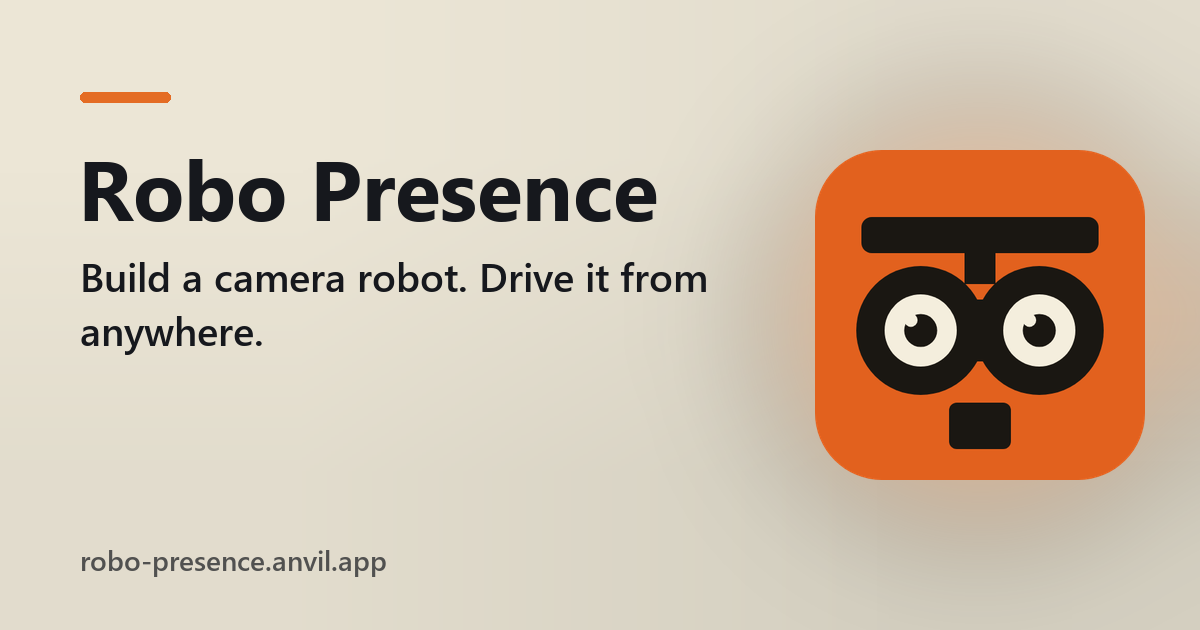
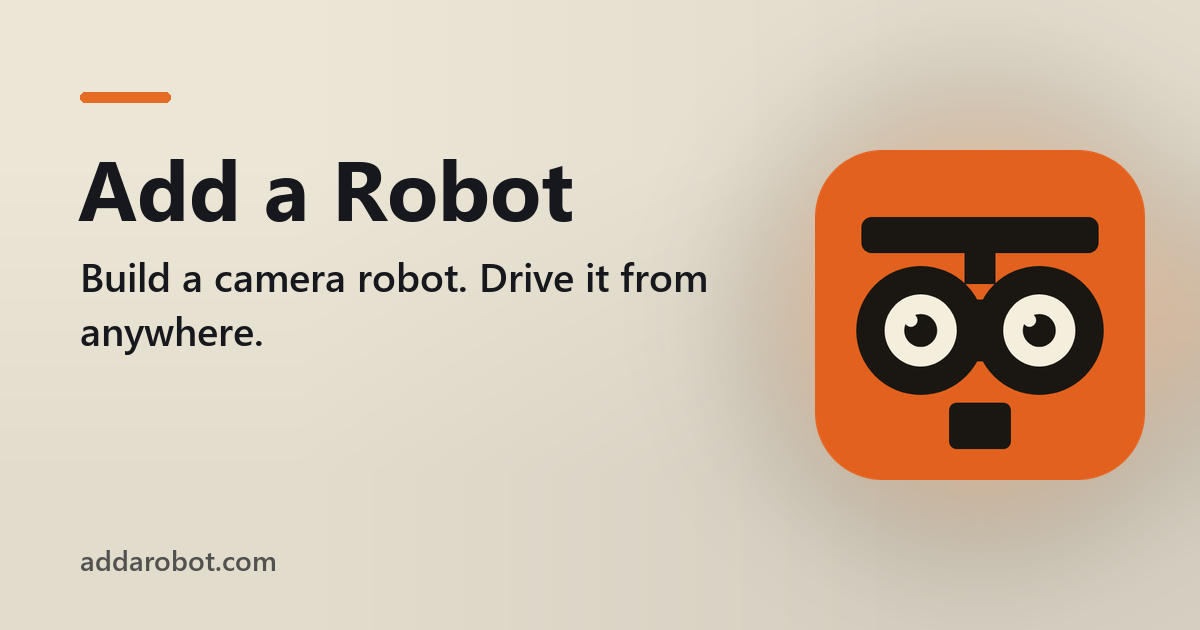
SEO: search and share tags, robots.txt, sitemap.xml, llms.txt, /about

Changed region(s): [[0.0617, 0.2413, 0.555, 0.3619], [0.0617, 0.8746, 0.3392, 0.9048]]

diff --git a/server_code/seo_routes.py b/server_code/seo_routes.py
@@ -65,7 +65,7 @@ SEO = {
   ]
  ],
  "site": "https://addarobot.com",
- "updated": "2026-11-16",
+ "updated": "2026-11-26",
  "icon": "icon-512.png",
  "colors": {
   "bg": "#ECE6D6",
@@ -117,8 +117,14 @@ def robots_txt(o):
     return "\n".join(lines)
 
 
+def guides():
+    """Optional extra crawlable pages (facts "guides"): plain HTML served by this module, listed in the sitemap."""
+    return SEO.get("guides") or []
+
+
 def sitemap_xml(o):
-    urls = [("/", "1.0"), ("/about", "0.8")] + [(p, "0.6") for p in SEO.get("sitemap_extra", [])]
+    urls = [("/", "1.0"), ("/about", "0.8")] + [(g["path"], "0.7") for g in guides()]
+    urls += [(p, "0.6") for p in SEO.get("sitemap_extra", [])]
     rows = ["<url><loc>%s%s</loc><lastmod>%s</lastmod><priority>%s</priority></url>"
             % (html.escape(o), html.escape(p), SEO["updated"], pr) for p, pr in urls]
     return ('<?xml version="1.0" encoding="UTF-8"?>\n<urlset xmlns="http://www.sitemaps.org/schemas/sitemap/0.9">\n'
@@ -128,6 +134,8 @@ def sitemap_xml(o):
 def llms_txt(o):
     s = SEO
     out = ["# %s" % s["name"], "", "> %s" % s["description"], ""]
+    if s.get("disambiguation"):
+        out += [s["disambiguation"], ""]
     out += [p for para in s.get("about", []) for p in (para, "")]
     if s.get("audience"):
         out += ["Who it's for: %s" % s["audience"], ""]
@@ -139,8 +147,11 @@ def llms_txt(o):
             out += ["### %s" % q, "", a, ""]
     out += ["## Links", "", "- [Open %s](%s/)" % (s["name"], o), "- [About %s](%s/about)" % (s["name"], o),
             "- Made by [Arkvital](https://arkvital.com), Montreal, Canada (arkvital@outlook.com)", ""]
-    if s.get("pages"):  # more pages worth reading: [title, path]
-        out += ["## Pages", ""] + ["- [%s](%s%s)" % (n, o, p) for n, p in s["pages"]] + [""]
+    pages = [[g["title"], g["path"]] for g in guides()] + list(s.get("pages") or [])
+    if pages:  # more pages worth reading: [title, path]
+        out += ["## Pages", ""] + ["- [%s](%s%s)" % (n, o, p) for n, p in pages] + [""]
+    if s.get("same_as"):
+        out += ["## %s elsewhere" % s["name"], ""] + ["- %s" % u for u in s["same_as"]] + [""]
     if s.get("keywords"):
         out += ["Keywords: %s" % ", ".join(s["keywords"]), ""]
     if s.get("updated"):
@@ -169,6 +180,8 @@ def noscript_html(o):
     """
     s, e = SEO, html.escape
     t = ["<noscript><div class=\"seo-noscript\">", "<h1>%s</h1>" % e(s["title"]), "<p>%s</p>" % e(s["description"])]
+    if s.get("disambiguation"):
+        t.append("<p>%s</p>" % e(s["disambiguation"]))
     t += ["<p>%s</p>" % e(p) for p in s.get("about", [])]
     if s.get("audience"):
         t.append("<p>Who it's for: %s</p>" % e(s["audience"]))
@@ -176,6 +189,9 @@ def noscript_html(o):
         t.append("<h2>What it does</h2><ul>%s</ul>" % "".join("<li>%s</li>" % e(f) for f in s["features"]))
     if s.get("faq"):
         t.append("<h2>Questions</h2>" + "".join("<h3>%s</h3><p>%s</p>" % (e(q), e(a)) for q, a in s["faq"]))
+    if guides():
+        t.append("<h2>Guides</h2><ul>%s</ul>" % "".join("<li><a href=\"%s%s\">%s</a></li>" % (e(o), e(g["path"]), e(g["title"]))
+                                                       for g in guides()))
     t.append("<p><a href=\"%s/about\">About %s</a> &middot; <a href=\"%s/llms.txt\">%s for AI assistants</a> &middot; "
              "Made by <a href=\"https://arkvital.com\">Arkvital</a>, Montreal, Canada. "
              "%s needs JavaScript in your browser.</p>" % (e(o), e(s["name"]), e(o), e(s["name"]), e(s["name"])))
@@ -218,11 +234,21 @@ def _ld(o):
         app["offers"] = {"@type": "Offer", "price": "0", "priceCurrency": "CAD"}
     if s.get("audience") and app["@type"] != "ProfessionalService":
         app["audience"] = {"@type": "Audience", "audienceType": s["audience"]}
+    # brand signals (optional facts): other names people use, a "not to be confused with" line, official profiles
+    if s.get("alternate_names"):
+        app["alternateName"] = s["alternate_names"]
+    if s.get("disambiguation"):
+        app["disambiguatingDescription"] = s["disambiguation"]
+    if s.get("same_as"):
+        app["sameAs"] = s["same_as"]
+        app["logo"] = o + "/_/theme/" + s.get("icon", "og-image.png")
     page = {"@type": "AboutPage", "@id": o + "/about#page", "url": o + "/about", "name": "About " + s["name"],
             "about": {"@id": app["@id"]}, "isPartOf": {"@id": site_id}}
-    graph = [app, page, {"@type": "WebSite", "@id": site_id, "url": o + "/", "name": s["name"],
-                         "publisher": {"@id": app["@id"] if app["@type"] == "ProfessionalService"
-                                       else "https://arkvital.com/#org"}},
+    site = {"@type": "WebSite", "@id": site_id, "url": o + "/", "name": s["name"],
+            "publisher": {"@id": app["@id"] if app["@type"] == "ProfessionalService" else "https://arkvital.com/#org"}}
+    if s.get("alternate_names"):  # Google reads WebSite name + alternateName for the site name shown in results
+        site["alternateName"] = s["alternate_names"]
+    graph = [app, page, site,
              {"@type": "Organization", "@id": "https://arkvital.com/#org", "name": "Arkvital", "url": "https://arkvital.com",
               "email": "arkvital@outlook.com", "address": {"@type": "PostalAddress", "addressLocality": "Montreal",
                                                            "addressRegion": "QC", "addressCountry": "CA"}}]
@@ -232,9 +258,31 @@ def _ld(o):
     return json.dumps({"@context": "https://schema.org", "@graph": graph}, ensure_ascii=False).replace("</", "<\\/")
 
 
+_STYLE = """<style>
+:root{--bg:%(bg)s;--ink:%(ink)s;--brand:%(brand)s;--on:%(on)s;--page:#ffffff;--text:#1d1f24;--muted:#5b616e;--line:#e4e6eb}
+@media (prefers-color-scheme: dark){:root{--page:#121317;--text:#eceef2;--muted:#a3a9b6;--line:#2a2d35}}
+*{box-sizing:border-box}body{margin:0;background:var(--page);color:var(--text);font:17px/1.6 system-ui,-apple-system,"Segoe UI",Roboto,sans-serif}
+header{background:var(--bg);color:var(--ink);padding:40px 16px 36px}
+.wrap{max-width:760px;margin:0 auto}
+.brand{display:flex;align-items:center;gap:14px;font-weight:700;font-size:20px}
+.brand img{width:52px;height:52px;border-radius:12px}
+h1{font-size:clamp(28px,5vw,40px);line-height:1.15;margin:22px 0 12px}
+.lead{font-size:19px;margin:0 0 24px;opacity:.9}
+.cta{display:inline-block;background:var(--brand);color:var(--on);padding:12px 22px;border-radius:999px;font-weight:700;text-decoration:none}
+main{padding:24px 16px 48px}h2{margin:36px 0 10px;font-size:24px}h3{margin:22px 0 4px;font-size:18px}
+ul{padding-left:22px}li{margin:6px 0}.who{color:var(--muted)}a{color:inherit}
+footer{border-top:1px solid var(--line);padding:22px 16px;color:var(--muted);font-size:15px}
+</style>"""
+
+
+def _style():
+    c = SEO.get("colors", {})
+    return _STYLE % {"bg": c.get("bg", "#1d1f24"), "ink": c.get("ink", "#ffffff"), "brand": c.get("brand", "#2f6fed"),
+                     "on": c.get("on", "#ffffff")}
+
+
 def about_html(o):
     s, e = SEO, html.escape
-    c = s.get("colors", {})
     paras = "".join("<p>%s</p>" % e(p) for p in s.get("about", []))
     feats = "".join("<li>%s</li>" % e(f) for f in s.get("features", []))
     faq = "".join("<h3>%s</h3><p>%s</p>" % (e(q), e(a)) for q, a in s.get("faq", []))
@@ -252,21 +300,7 @@ def about_html(o):
 <meta name="twitter:card" content="summary_large_image">
 <link rel="icon" href="%(o)s/_/theme/%(icon)s">
 <script type="application/ld+json">%(ld)s</script>
-<style>
-:root{--bg:%(bg)s;--ink:%(ink)s;--brand:%(brand)s;--on:%(on)s;--page:#ffffff;--text:#1d1f24;--muted:#5b616e;--line:#e4e6eb}
-@media (prefers-color-scheme: dark){:root{--page:#121317;--text:#eceef2;--muted:#a3a9b6;--line:#2a2d35}}
-*{box-sizing:border-box}body{margin:0;background:var(--page);color:var(--text);font:17px/1.6 system-ui,-apple-system,"Segoe UI",Roboto,sans-serif}
-header{background:var(--bg);color:var(--ink);padding:40px 16px 36px}
-.wrap{max-width:760px;margin:0 auto}
-.brand{display:flex;align-items:center;gap:14px;font-weight:700;font-size:20px}
-.brand img{width:52px;height:52px;border-radius:12px}
-h1{font-size:clamp(28px,5vw,40px);line-height:1.15;margin:22px 0 12px}
-.lead{font-size:19px;margin:0 0 24px;opacity:.9}
-.cta{display:inline-block;background:var(--brand);color:var(--on);padding:12px 22px;border-radius:999px;font-weight:700;text-decoration:none}
-main{padding:24px 16px 48px}h2{margin:36px 0 10px;font-size:24px}h3{margin:22px 0 4px;font-size:18px}
-ul{padding-left:22px}li{margin:6px 0}.who{color:var(--muted)}a{color:inherit}
-footer{border-top:1px solid var(--line);padding:22px 16px;color:var(--muted);font-size:15px}
-</style></head>
+%(style)s</head>
 <body>
 <header><div class="wrap">
 <div class="brand"><img src="%(o)s/_/theme/%(icon)s" alt="" width="52" height="52">%(name)s</div>
@@ -275,20 +309,106 @@ footer{border-top:1px solid var(--line);padding:22px 16px;color:var(--muted);fon
 <a class="cta" href="%(o)s/">Open %(name)s</a>
 </div></header>
 <main><div class="wrap">
-<h2>What %(name)s is</h2>%(paras)s%(who)s
+<h2>What %(name)s is</h2>%(dis)s%(paras)s%(who)s
 %(feat_block)s
 %(faq_block)s
-<p><a class="cta" href="%(o)s/">Open %(name)s</a></p>
+%(guide_block)s<p><a class="cta" href="%(o)s/">Open %(name)s</a></p>
 </div></main>
 <footer><div class="wrap">%(name)s is made by <a href="https://arkvital.com">Arkvital</a> in Montreal, Canada.
 Questions: <a href="mailto:arkvital@outlook.com">arkvital@outlook.com</a>. A short version for AI assistants: <a href="%(o)s/llms.txt">llms.txt</a>.</div></footer>
 </body></html>
 """ % {"lang": e(s.get("lang", "en")), "name": e(s["name"]), "short": e(s.get("tagline", s["title"])),
        "desc": e(s["description"]), "kw": e(", ".join(s.get("keywords", []))), "o": e(o), "icon": e(s.get("icon", "og-image.png")),
-       "ld": _ld(o), "bg": c.get("bg", "#1d1f24"), "ink": c.get("ink", "#ffffff"), "brand": c.get("brand", "#2f6fed"),
-       "on": c.get("on", "#ffffff"), "title": e(s["title"]), "paras": paras, "who": who,
+       "ld": _ld(o), "style": _style(), "title": e(s["title"]), "paras": paras, "who": who,
+       "dis": ("<p>%s</p>" % e(s["disambiguation"])) if s.get("disambiguation") else "",
+       "guide_block": _guide_list(o) + "\n" if guides() else "",
        "feat_block": ("<h2>What you can do</h2><ul>%s</ul>" % feats) if feats else "",
        "faq_block": ("<h2>Questions</h2>%s" % faq) if faq else ""}
+
+
+def _guide_list(o, skip=None):
+    e = html.escape
+    items = "".join('<li><a href="%s%s">%s</a></li>' % (e(o), e(g["path"]), e(g["title"]))
+                    for g in guides() if g["path"] != skip)
+    return "<h2>%s</h2><ul>%s</ul>" % ("More guides" if skip else "Guides", items) if items else ""
+
+
+def _table(t):
+    """{"head": [...], "rows": [[...], ...]} -> an HTML table (first column as row headers)."""
+    e = html.escape
+    head = "".join("<th scope=\"col\">%s</th>" % e(h) for h in t.get("head", []))
+    rows = "".join("<tr><th scope=\"row\">%s</th>%s</tr>" % (e(r[0]), "".join("<td>%s</td>" % e(c) for c in r[1:]))
+                   for r in t.get("rows", []))
+    cap = "<caption>%s</caption>" % e(t["caption"]) if t.get("caption") else ""
+    return "<div class=\"tbl\"><table>%s<thead><tr>%s</tr></thead><tbody>%s</tbody></table></div>" % (cap, head, rows)
+
+
+def guide_ld(o, g):
+    """The site graph plus this page as a WebPage about the app (same @ids, so it is one entity everywhere)."""
+    s = SEO
+    ld = json.loads(_ld(o))
+    ld["@graph"] = [n for n in ld["@graph"] if n["@type"] not in ("AboutPage", "FAQPage")]
+    ld["@graph"].insert(0, {"@type": "WebPage", "@id": o + g["path"] + "#page", "url": o + g["path"], "name": g["title"],
+                            "description": g["description"], "inLanguage": s.get("lang", "en"),
+                            "isPartOf": {"@id": o + "/#site"}, "about": {"@id": o + "/#app"},
+                            "dateModified": s.get("updated")})
+    if g.get("faq"):
+        ld["@graph"].append({"@type": "FAQPage", "@id": o + g["path"] + "#faq", "mainEntity": [
+            {"@type": "Question", "name": q, "acceptedAnswer": {"@type": "Answer", "text": a}} for q, a in g["faq"]]})
+    return json.dumps(ld, ensure_ascii=False).replace("</", "<\\/")
+
+
+def guide_html(o, g):
+    """One guide page: facts "guides" entry {path, title, description, h1?, intro: [p], sections: [{h2, paras, table}], faq}."""
+    s, e = SEO, html.escape
+    body = "".join("<p>%s</p>" % e(p) for p in g.get("intro", []))
+    for sec in g.get("sections", []):
+        body += "<h2>%s</h2>" % e(sec["h2"])
+        body += "".join("<p>%s</p>" % e(p) for p in sec.get("paras", []))
+        if sec.get("table"):
+            body += _table(sec["table"])
+        body += "".join("<p>%s</p>" % e(p) for p in sec.get("after", []))
+    if g.get("faq"):
+        body += "<h2>Questions</h2>" + "".join("<h3>%s</h3><p>%s</p>" % (e(q), e(a)) for q, a in g["faq"])
+    about = "<h2>About %s</h2><p>%s</p>" % (e(s["name"]), e(s["description"]))
+    if s.get("disambiguation"):
+        about += "<p>%s</p>" % e(s["disambiguation"])
+    return """<!doctype html>
+<html lang="%(lang)s"><head><meta charset="utf-8"><meta name="viewport" content="width=device-width, initial-scale=1">
+<title>%(title)s | %(name)s</title>
+<meta name="description" content="%(desc)s">
+<link rel="canonical" href="%(o)s%(path)s">
+<meta name="robots" content="index, follow, max-image-preview:large, max-snippet:-1">
+<meta property="og:type" content="article"><meta property="og:site_name" content="%(name)s">
+<meta property="og:title" content="%(title)s"><meta property="og:description" content="%(desc)s">
+<meta property="og:url" content="%(o)s%(path)s"><meta property="og:image" content="%(o)s/_/theme/og-image.png">
+<meta name="twitter:card" content="summary_large_image">
+<link rel="icon" href="%(o)s/_/theme/%(icon)s">
+<script type="application/ld+json">%(ld)s</script>
+%(style)s
+<style>.tbl{overflow-x:auto;margin:14px 0}table{border-collapse:collapse;width:100%%;font-size:16px}
+th,td{text-align:left;vertical-align:top;padding:8px 10px;border-bottom:1px solid var(--line)}thead th{font-size:14px;color:var(--muted)}
+caption{text-align:left;color:var(--muted);font-size:14px;padding-bottom:6px}nav.crumbs{font-size:15px;margin-bottom:6px;opacity:.85}</style></head>
+<body>
+<header><div class="wrap">
+<div class="brand"><img src="%(o)s/_/theme/%(icon)s" alt="" width="52" height="52">%(name)s</div>
+<h1>%(h1)s</h1>
+<p class="lead">%(desc)s</p>
+<a class="cta" href="%(o)s/">Practise this in %(name)s</a>
+</div></header>
+<main><div class="wrap">
+<nav class="crumbs"><a href="%(o)s/">%(name)s</a> &rsaquo; <a href="%(o)s/about">About</a> &rsaquo; %(title)s</nav>
+%(body)s
+%(about)s
+%(more)s
+<p><a class="cta" href="%(o)s/">Open %(name)s</a></p>
+</div></main>
+<footer><div class="wrap">%(name)s is made by <a href="https://arkvital.com">Arkvital</a> in Montreal, Canada.
+Questions: <a href="mailto:arkvital@outlook.com">arkvital@outlook.com</a>. A short version for AI assistants: <a href="%(o)s/llms.txt">llms.txt</a>.</div></footer>
+</body></html>
+""" % {"lang": e(s.get("lang", "en")), "name": e(s["name"]), "title": e(g["title"]), "h1": e(g.get("h1", g["title"])),
+       "desc": e(g["description"]), "o": e(o), "path": e(g["path"]), "icon": e(s.get("icon", "og-image.png")),
+       "ld": guide_ld(o, g), "style": _style(), "body": body, "about": about, "more": _guide_list(o, g["path"])}
 
 
 def _file(text, ctype):
@@ -321,6 +441,15 @@ if ROUTE:  # the Python 3.10+ server runtimes have it; older ones serve nothing 
     @ROUTE("/about")
     def seo_about(**params):
         return _file(about_html(origin()), "text/html; charset=utf-8")
+
+    def _guide_route(i, g):
+        def seo_guide(**params):
+            return _file(guide_html(origin(), g), "text/html; charset=utf-8")
+        seo_guide.__name__ = "seo_guide_%d" % i
+        return ROUTE(g["path"])(seo_guide)
+
+    for _i, _g in enumerate(guides()):
+        _guide_route(_i, _g)
 
     def _verify_route(i, path, ctype, body):
         def seo_verify(**params):
